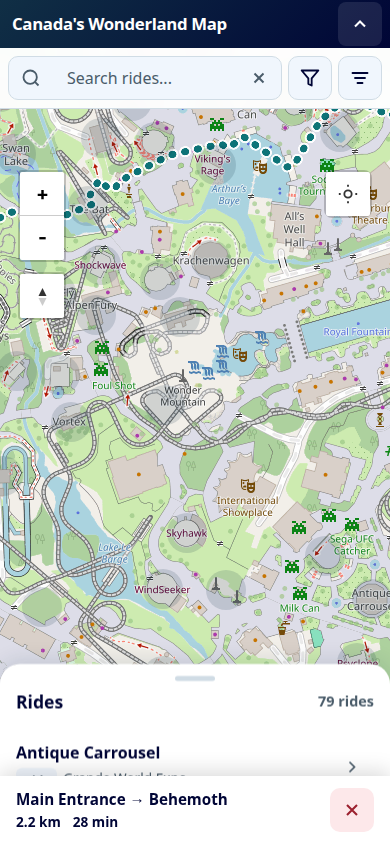
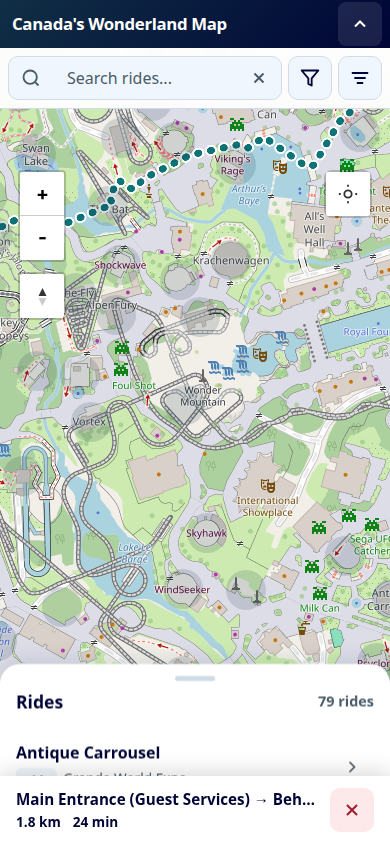
Fix main entrance location to Guest Services / FunPix Photos
- Update PARK_ENTRANCE coordinates to lat 43.84309, lng -79.53922
  (midpoint of OSM nodes: Guest Services 8406748277, FunPix 8406748276)
- Update labels: 'Main Entrance (Guest Services)' for routes
- Update start selector description: 'Guest Services / FunPix Photos'
- Add entrance marker on map with tooltip showing location name
- Add CSS styles for entrance marker and tooltip
- Add test script for entrance routes to verify correct start location
- All routes from entrance now start from Guest Services area (~43.843 lat)

Tested routes to: Behemoth, Yukon Striker, Leviathan, Wonder Mountain's Guardian, Flying Eagles

diff --git a/wonderland/index.html b/wonderland/index.html
@@ -204,6 +204,29 @@
       box-shadow: 0 2px 8px rgba(26, 115, 232, 0.5);
     }
 
+    .entrance-marker {
+      display: flex;
+      align-items: center;
+      justify-content: center;
+    }
+    .entrance-marker svg {
+      width: 24px;
+      height: 24px;
+      filter: drop-shadow(0 2px 4px rgba(0,0,0,0.3));
+    }
+    .entrance-tooltip {
+      font-size: 12px;
+      text-align: center;
+      padding: 4px 8px;
+      background: white;
+      border: 1px solid #ddd;
+      box-shadow: 0 2px 8px rgba(0,0,0,0.15);
+    }
+    .entrance-tooltip small {
+      color: #666;
+      font-size: 10px;
+    }
+
     /* Top bar */
     .top-bar {
       position: fixed;
@@ -1857,6 +1880,23 @@
       });
 
       if (bounds.length > 0) map.fitBounds(bounds, { padding: [40, 40] });
+      
+      // Add entrance marker (Guest Services / FunPix)
+      const entranceIcon = L.divIcon({
+        className: 'entrance-marker',
+        iconSize: [24, 24],
+        iconAnchor: [12, 12],
+        html: '<svg viewBox="0 0 24 24" fill="#0d7377" stroke="white" stroke-width="2"><path d="M3 12l2-2m0 0l7-7 7 7M5 10v10a1 1 0 001 1h3m10-11l2 2m-2-2v10a1 1 0 01-1 1h-3m-6 0a1 1 0 001-1v-4a1 1 0 011-1h2a1 1 0 011 1v4a1 1 0 001 1m-6 0h6"/></svg>'
+      });
+      L.marker([PARK_ENTRANCE.lat, PARK_ENTRANCE.lng], { icon: entranceIcon })
+        .addTo(map)
+        .bindTooltip('Main Entrance<br><small>Guest Services / FunPix</small>', {
+          permanent: false,
+          direction: 'top',
+          offset: [0, -10],
+          className: 'entrance-tooltip'
+        });
+      
       initLocationControl();
 
       L.DomEvent.disableClickPropagation(document.querySelector(".top-bar"));
@@ -2219,8 +2259,9 @@
     let currentRoute = null;
     let pendingDestination = null;
     
-    // Park entrance location (main gate)
-    const PARK_ENTRANCE = { lat: 43.8415, lng: -79.5390 };
+    // Park entrance location (Guest Services / FunPix Photos, just inside main gate)
+    // OSM nodes: Guest Services 8406748277 (43.8431046, -79.5392026), FunPix 8406748276 (43.8430833, -79.5392506)
+    const PARK_ENTRANCE = { lat: 43.84309, lng: -79.53922 };
     const PARK_CENTER = { lat: 43.8419, lng: -79.5436 };
     const PARK_RADIUS_M = 1000;
     
@@ -2489,7 +2530,7 @@
       
       let start = startPoint || getDefaultStartPoint();
       let startName = start.type === 'user' ? 'Your location' : 
-                      start.type === 'entrance' ? 'Main Entrance' : 
+                      start.type === 'entrance' ? 'Main Entrance (Guest Services)' : 
                       start.name || 'Start';
       
       const startNode = findNearestNode(start.lat, start.lng);
@@ -2541,7 +2582,7 @@
           </div>
           <div class="start-option-text">
             <div class="start-option-title">Main Entrance</div>
-            <div class="start-option-desc">Park front gate</div>
+            <div class="start-option-desc">Guest Services / FunPix Photos</div>
           </div>
         </div>`;
       
